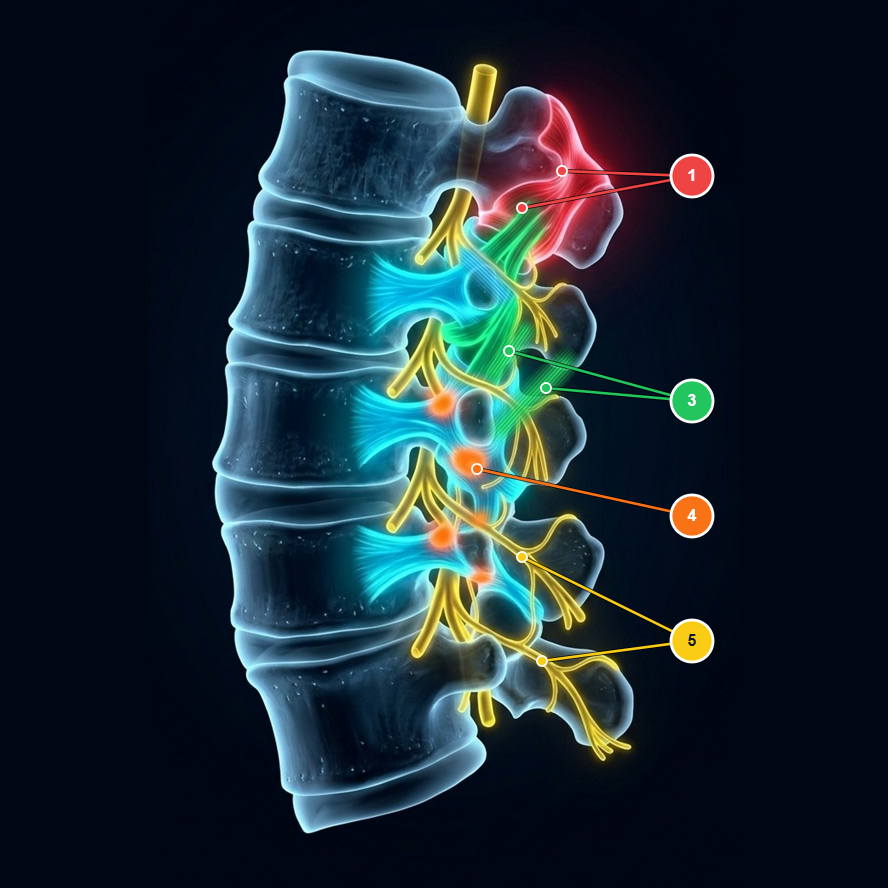
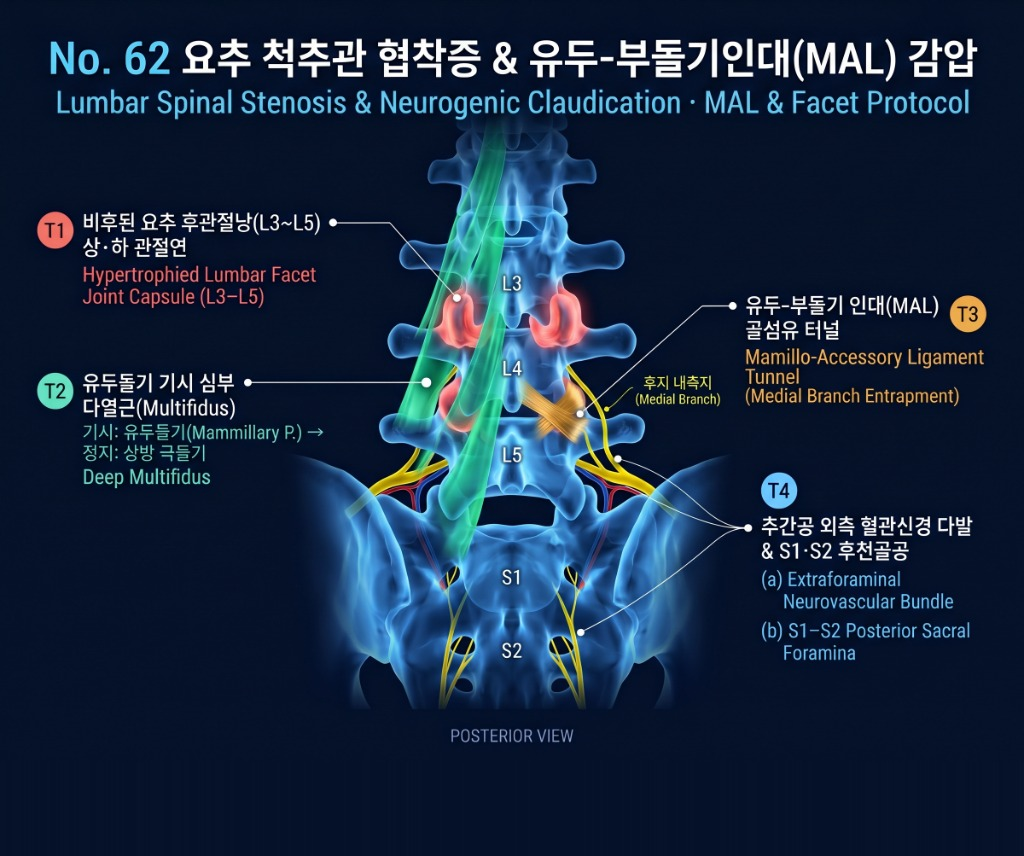
feat(healing-app): upgrade No.62 lumbar spinal stenosis & MAL plate and align T1-T4 pins

diff --git a/healing-app/js/pain_data.js b/healing-app/js/pain_data.js
@@ -7743,7 +7743,7 @@ window.PAIN_CONDITIONS = [
       "tendon"
     ],
     "title": {
-      "ko": "요추 척추관 협착증 / 신경인성 간헐적 파행 및 유두-부돌기인대 감압",
+      "ko": "요추 척추관 협착증 & 유두-부돌기인대(MAL) 감압",
       "en": "Lumbar Spinal Stenosis & Neurogenic Claudication (MAL & Facet Protocol)"
     },
     "symptoms": {
@@ -7755,97 +7755,97 @@ window.PAIN_CONDITIONS = [
       "en": "Facet hypertrophy, ligamentum flavum thickening, and foraminal narrowing cause radicular venous congestion/ischemia, while the medial branch is entrapped beneath the mamillo-accessory ligament (MAL)."
     },
     "targetTissues": {
-      "ko": "비후된 요추 후관절낭(L3-S1), 다열근 기시부, 유두-부돌기 인대(MAL) 골섬유 터널, 추간공 외측 혈관신경 다발 및 후천골공(S1-S2).",
-      "en": "Hypertrophied L3-S1 facet capsules, multifidus origin, mamillo-accessory ligament (MAL) tunnel, foraminal neurovascular bundle, and S1-S2 sacral foramina."
+      "ko": "비후된 요추 후관절낭(L3~L5), 유두돌기 기시 심부 다열근(Multifidus), 유두-부돌기 인대(MAL) 골섬유 터널 및 후지 내측지, 추간공 외측 혈관신경 다발 및 S1·S2 후천골공.",
+      "en": "Hypertrophied L3-L5 lumbar facet capsules, deep multifidus (mammillary origin), mamillo-accessory ligament (MAL) tunnel & medial branch, extraforaminal neurovascular bundle, and S1-S2 posterior sacral foramina."
     },
     "palpation": {
-      "ko": "후관절·유두부돌기인대 해부도: ① 상관절돌기·후관절낭 상부 ② 심부 다열근 다발 ③ 유두-부돌기 인대(MAL) 터널 ④ 추간공 출구 및 하부 내측지.",
-      "en": "Ch.7 Facet & MAL Anatomy : 1) Superior facet capsule 2) Multifidus slips 3) Mamillo-accessory ligament tunnel 4) Foraminal exit & medial branch."
+      "ko": "① 비후된 요추 후관절낭(L3~L5) 상·하 관절연 ② 유두돌기 기시 심부 다열근(Multifidus) ③ 유두-부돌기 인대(MAL) 골섬유 터널(후지 내측지) ④ 추간공 외측 혈관신경 다발 & S1·S2 후천골공.",
+      "en": "1) Hypertrophied L3-L5 facet joint capsule 2) Mammillary-origin deep multifidus 3) Mamillo-accessory ligament (MAL) tunnel (medial branch) 4) Extraforaminal neurovascular bundle & S1-S2 posterior sacral foramina."
     },
     "clinicalCase": {
-      "ko": "5분만 걸어도 양쪽 종아리가 터질 듯 아파 쉬어야 했던 70대 중증 척추관 협착증 환자. L3~S1 유두-부돌기 인대(MAL) 골막 부착부, 추간공 외측 혈관신경 회복점 및 후천골공(S1-S2) 자율신경점에 노바셀(-70mV) 치료 후 연속 보행 시간이 5분에서 40분 이상으로 획기적 개선.",
-      "en": "70yo severe lumbar spinal stenosis unable to walk >5 minutes (Ch.7 Case 7-12); continuous walking distance increased to >40 minutes via L3-S1 MAL Periosteal Contact + foraminal vascular protocol."
+      "ko": "5분만 걸어도 양쪽 종아리가 터질 듯 아파 쉬어야 했던 70대 중증 척추관 협착증 환자. L3~S1 비후 후관절낭, 유두-부돌기 인대(MAL) 골섬유 터널, 추간공 외측 혈관신경 회복점 및 후천골공(S1·S2) 자율신경점에 노바셀(-70mV) 치료 후 연속 보행 시간이 5분에서 40분 이상으로 획기적 개선.",
+      "en": "70yo severe lumbar spinal stenosis unable to walk >5 minutes; continuous walking distance increased to >40 minutes via the L3-S1 hypertrophied facet, MAL tunnel, extraforaminal vascular, and S1-S2 sacral NovaCell protocol."
     },
     "diagram": "images/diagrams/diagram_62.png",
     "rifeFreq": 528,
     "anatomicalLabels": [
-      "1. Hypertrophied Facet Joint Capsule",
-      "2/3. Deep Multifidus Fascicles",
-      "4. Mamillo-Accessory Ligament (MAL) Tunnel",
-      "5. Medial Branch of Dorsal Ramus & Foramen"
+      "Hypertrophied Lumbar Facet Joint Capsule (L3-L5)",
+      "Deep Multifidus (Mammillary Process Origin)",
+      "Mamillo-Accessory Ligament (MAL) Tunnel & Medial Branch",
+      "Extraforaminal Neurovascular Bundle & S1-S2 Posterior Sacral Foramina"
     ],
-    "searchKeywords": "척추관협착증 협착증 신경인성파행 간헐적파행 다리저림 유두부돌기인대 요추후관절",
+    "searchKeywords": "척추관 협착증 척추관협착증 협착증 신경인성 파행 간헐적 파행 다리저림 유두부돌기인대 MAL 요추 후관절 후지 내측지 추간공 혈관신경 S1 S2 후천골공 Lumbar Spinal Stenosis Neurogenic Claudication Mamillo-Accessory Ligament",
     "targets": [
       {
         "code": "T1",
         "color": "#ff334b",
-        "x": 57.5,
-        "y": 23.5,
+        "x": 44.6,
+        "y": 34.7,
         "role": {
           "ko": "핵심 후관절·신경근점",
           "en": "Primary Facet & Root Target"
         },
         "name": {
-          "ko": "T1: 비후된 요추 후관절낭(L3-L4-L5) 상·하 관절연 골막 부착점 (①번 타깃)",
-          "en": "T1: Hypertrophied Lumbar Facet Joint Capsule Periosteal Contact (Target 1)"
+          "ko": "T1: 비후된 요추 후관절낭(L3~L5) 상·하 관절연",
+          "en": "T1: Hypertrophied Lumbar Facet Joint Capsule (L3-L5)"
         },
         "desc": {
-          "ko": "[표적 해부] 퇴행성으로 두꺼워져 척추관과 외측함요(Lateral recess)를 좁히는 요추 후관절낭 및 상관절돌기.\n[촉지 및 시술] 후관절낭 외측연 골막 정밀 자극으로 관절낭 부종과 활막 염증을 가라앉혀 신경 통로를 넓혀줍니다.",
-          "en": "Hypertrophied lumbar facet joint capsule and superior articular process."
+          "ko": "[표적 해부] 퇴행성으로 두꺼워져 척추관과 외측함요(Lateral recess)를 좁히는 요추 L3~L5 비후 후관절낭 및 상관절돌기.\n[촉지 및 시술] 후관절낭 상·하 관절연 외측 골막 정밀 자극으로 관절낭 부종과 활막 염증을 가라앉혀 신경 통로를 넓혀줍니다.",
+          "en": "Hypertrophied lumbar facet joint capsule (L3-L5) and superior articular process narrowing the lateral recess."
         }
       },
       {
         "code": "T2",
         "color": "#00f5d4",
-        "x": 52.5,
-        "y": 42.5,
+        "x": 41.6,
+        "y": 44.6,
         "role": {
-          "ko": "후관절·신경근점",
-          "en": "Facet & Nerve Root Target"
+          "ko": "심부 근복·근막점",
+          "en": "Deep Multifidus Recovery Target"
         },
         "name": {
-          "ko": "T2: 유두돌기 기시 심부 다열근(Multifidus) 위축·섬유화 복원점 (③번 타깃)",
-          "en": "T2: Mamillary Process Deep Multifidus Atrophy Recovery Point (Target 2)"
+          "ko": "T2: 유두돌기 기시 심부 다열근(Multifidus)",
+          "en": "T2: Deep Multifidus (Mammillary Process Origin)"
         },
         "desc": {
-          "ko": "[표적 해부] 유두돌기에서 기시하여 극돌기로 붙는 심부 다열근 다발( ③).\n[촉지 및 시술] 협착증 환자에서 지방 변성되고 굳어진 다열근에 -70mV 생체전압을 충전하여 허리 지지력을 되살립니다.",
-          "en": "Deep multifidus fascicles originating from the mamillary process."
+          "ko": "[표적 해부] 유두돌기(Mammillary Process)에서 기시하여 상방 극돌기로 정지하는 심부 다열근 다발.\n[촉지 및 시술] 척추관 협착증 환자에서 위축·지방 변성되고 굳어진 다열근에 -70mV 생체전압을 충전하여 요추 분절 지지력을 되살립니다.",
+          "en": "Deep multifidus fascicles originating from the mammillary process and inserting onto superior spinous processes."
         }
       },
       {
         "code": "T3",
         "color": "#ff9f43",
-        "x": 51.0,
-        "y": 50.0,
+        "x": 56.6,
+        "y": 48.3,
         "role": {
-          "ko": "후관절·신경근점",
-          "en": "Facet & Nerve Root Target"
+          "ko": "MAL 인대 터널점",
+          "en": "MAL Tunnel Entrapment Target"
         },
         "name": {
-          "ko": "T3: 유두-부돌기 인대(Mamillo-Accessory Ligament: MAL) 골섬유 터널 감압점 (④번 타깃)",
-          "en": "T3: Mamillo-Accessory Ligament (MAL) Osteofibrous Tunnel Periosteal Contact (Target 3)"
+          "ko": "T3: 유두-부돌기 인대(MAL) 골섬유 터널",
+          "en": "T3: Mamillo-Accessory Ligament Tunnel (Medial Branch Entrapment)"
         },
         "desc": {
-          "ko": "[표적 해부] 상관절돌기의 유두돌기(Mamillary process)와 횡돌기 기저부의 부돌기(Accessory process)를 잇는 유두-부돌기 인대 터널( ④).\n[촉지 및 시술] 노령 협착증 환자에서 석회화·비후되어 척수신경 후지 내측지를 목 조르듯 압박하는 핵심 병소를 정밀 골막 자극으로 개방합니다.",
-          "en": "Mamillo-accessory ligament (MAL) bridging mamillary and accessory processes over the medial branch."
+          "ko": "[표적 해부] 상관절돌기의 유두돌기(Mammillary process)와 횡돌기 기저부의 부돌기(Accessory process)를 잇는 유두-부돌기 인대(MAL) 골섬유 터널 및 척수신경 후지 내측지.\n[촉지 및 시술] 노령 협착증 환자에서 석회화·비후되어 후지 내측지를 목 조르듯 압박하는 핵심 병소를 정밀 골막 자극으로 개방·감압합니다.",
+          "en": "Mamillo-accessory ligament (MAL) osteofibrous tunnel bridging mammillary and accessory processes over the dorsal ramus medial branch."
         }
       },
       {
         "code": "T4",
         "color": "#38bdf8",
-        "x": 50.5,
-        "y": 58.5,
+        "x": 60.3,
+        "y": 53.5,
         "role": {
-          "ko": "후관절·신경근점",
-          "en": "Facet & Nerve Root Target"
+          "ko": "혈관신경·천골공점",
+          "en": "Neurovascular & Sacral Foramina Target"
         },
         "name": {
-          "ko": "T4: 추간공 외측 신경근 혈류 회복점 및 후지 내측지·S1-S2 후천골공점 (⑤번 타깃)",
-          "en": "T4: Foraminal Neurovascular Recovery & Medial Branch / S1-S2 Sacral Point (Target 4)"
+          "ko": "T4: 추간공 외측 혈관신경 다발 & S1·S2 후천골공",
+          "en": "T4: Extraforaminal Neurovascular Bundle & S1-S2 Posterior Sacral Foramina"
         },
         "desc": {
-          "ko": "[표적 해부] 추간공 외측 혈관신경 다발(HP-LSS-01), 하행 내측지( ⑤) 및 S1-S2 후천골공 자율신경점(HP-LSS-02).\n[촉지 및 시술] 마미신경과 좌골신경근의 정맥 울혈을 해소하여 보행 시 다리가 터질 듯한 간헐적 파행을 획기적으로 연장시킵니다.",
-          "en": "Foraminal vasa nervorum vascular point, descending medial branch, and S1-S2 sacral autonomic point."
+          "ko": "[표적 해부] (a) 추간공 외측 혈관신경 다발(HP-LSS-01) 및 (b) S1·S2 후천골공 자율신경점(HP-LSS-02).\n[촉지 및 시술] 마미신경과 좌골신경근의 정맥 울혈·허혈을 해소하고 천골 자율신경 혈류를 개선하여 보행 시 다리가 터질 듯한 신경인성 간헐적 파행을 획기적으로 연장시킵니다.",
+          "en": "(a) Extraforaminal neurovascular bundle (vasa nervorum) and (b) S1-S2 posterior sacral foramina autonomic points relieving venous congestion and neurogenic claudication."
         }
       }
     ]
